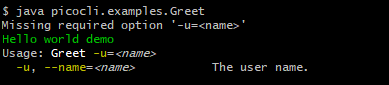
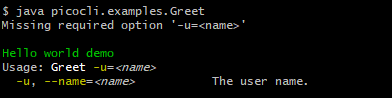
Improved resources for Picocli 2.0 article

Changed region(s): [[0.0, 0.0471, 0.6478, 0.3765], [0.0, 0.4, 0.401, 0.8941], [0.5244, 0.7294, 0.8021, 0.8706]]

diff --git a/examples/src/main/java/picocli/examples/Greet.java b/examples/src/main/java/picocli/examples/Greet.java
@@ -18,7 +18,7 @@ package picocli.examples;
 import picocli.CommandLine;
 import static picocli.CommandLine.*;
 
-@Command(name = "Greet", header = "@|green Hello world demo|@")
+@Command(name = "Greet", header = "%n@|green Hello world demo|@")
 public class Greet implements Runnable {
     @Option(names = {"-u", "--name"}, required = true, description = "The user name.")
     String name;
